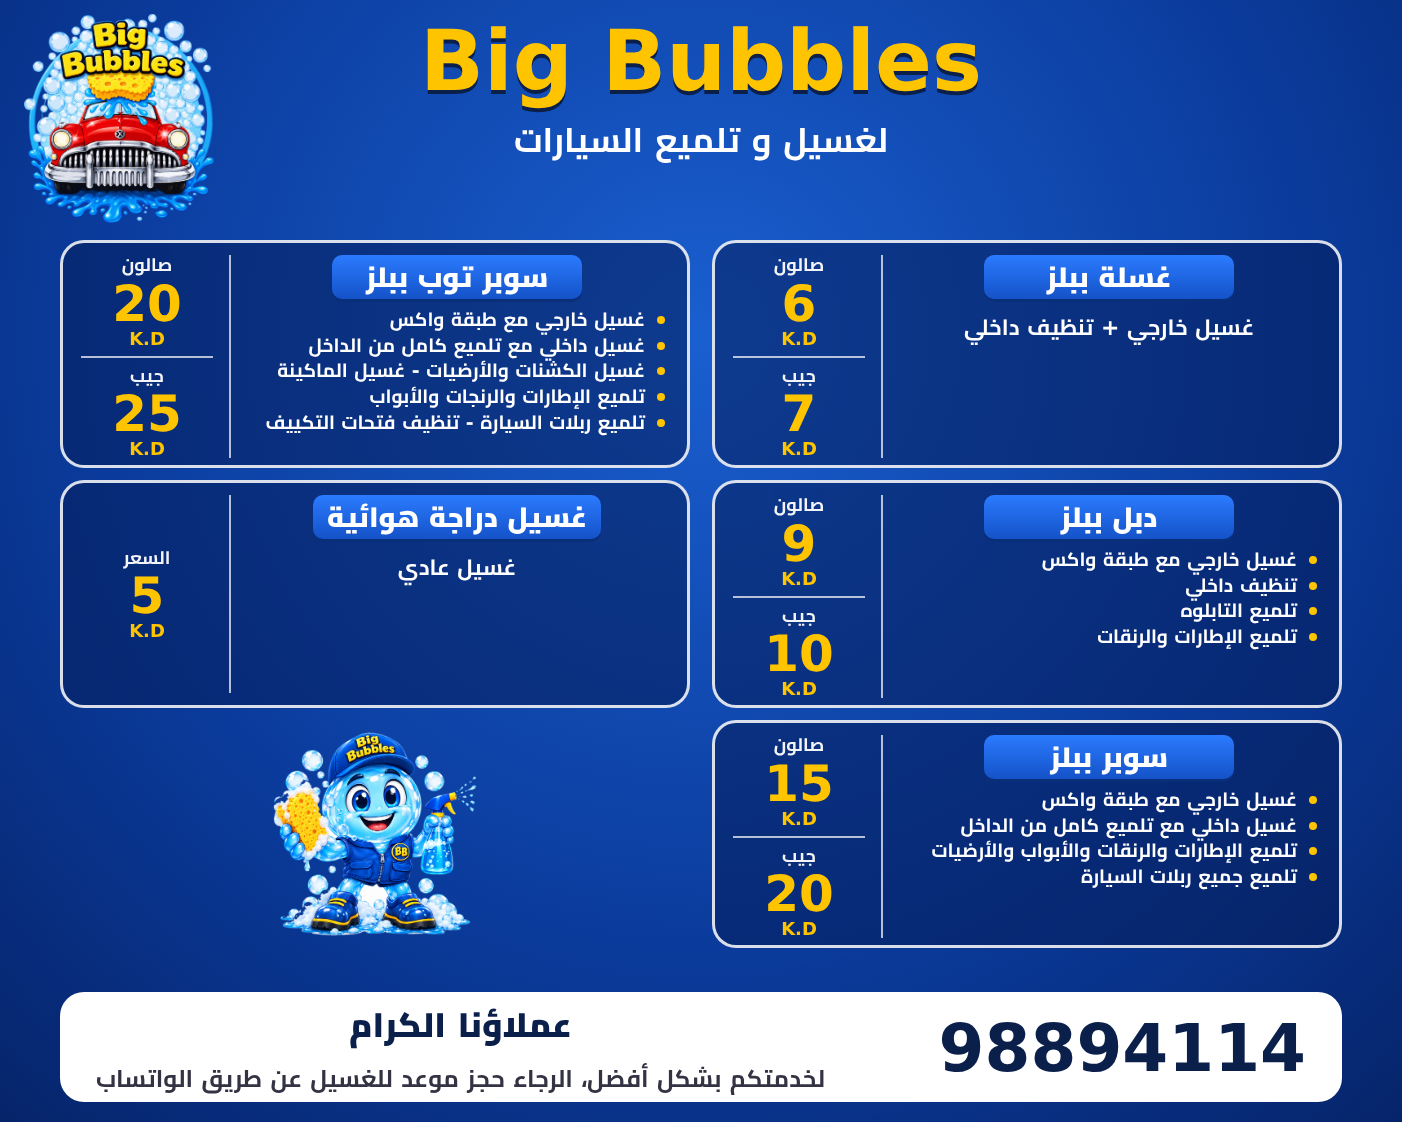
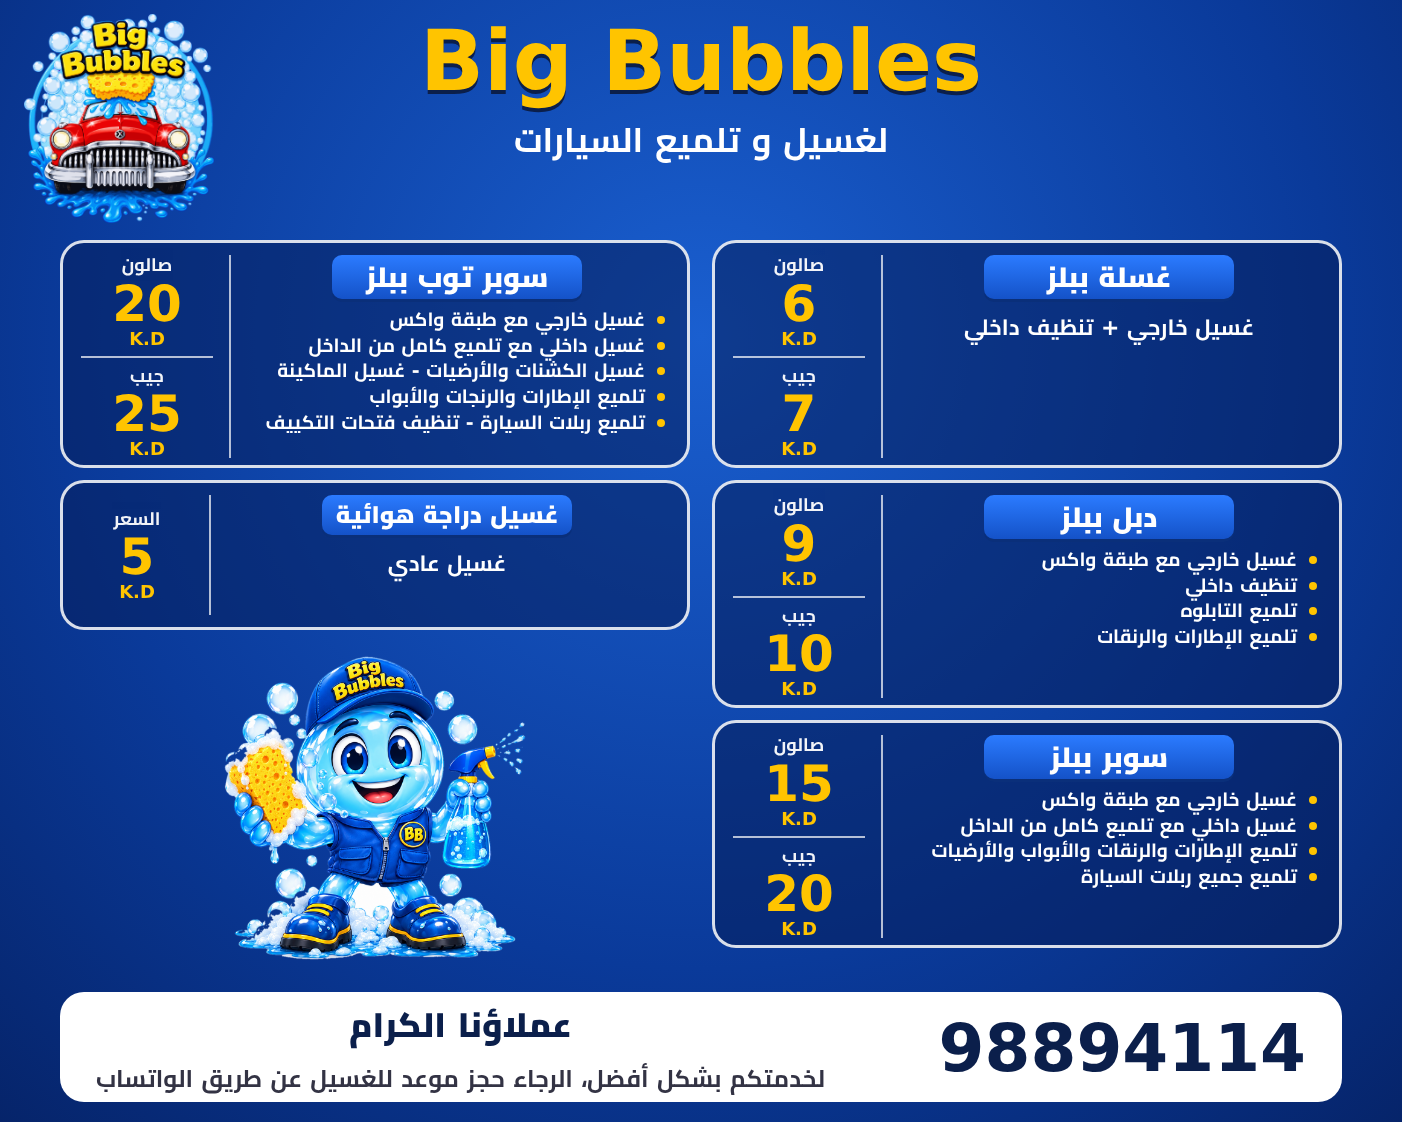
Smaller cycle card and bigger mascot in price table

Changed region(s): [[0.0307, 0.4367, 0.4907, 0.8734], [0.2147, 0.4367, 0.4294, 0.5303]]

diff --git a/car-wash/designs/table/index.html b/car-wash/designs/table/index.html
@@ -28,8 +28,10 @@ body{font-family:Cairo,'DejaVu Sans',sans-serif;direction:rtl;color:#fff;positio
 .prices strong{font-size:50px;font-weight:900;color:#FFC400;line-height:1}
 .prices span{line-height:1;font-size:18px;font-weight:900;color:#FFC400}
 .prices hr{border:0;border-top:2px solid rgba(255,255,255,.7);margin:6px 0}
-.mascot{background:transparent;border:0;display:flex;align-items:center;justify-content:center}
-.mascot img{width:100%;height:100%;object-fit:contain}
+.cycle{height:150px;align-self:start;grid-template-columns:1fr 130px}
+.cycle .tag{font-size:24px;min-width:230px;height:40px;line-height:40px}
+.mascot{background:transparent;border:0;display:flex;align-items:center;justify-content:center;height:300px;margin-top:-62px;overflow:visible}
+.mascot img{width:110%;height:110%;max-width:none;object-fit:contain}
 .foot{position:absolute;left:60px;right:60px;bottom:20px;height:110px;border-radius:24px;background:#fff;color:#0B1F4B;display:flex;align-items:center;justify-content:space-between;padding:0 36px}
 .foot .ph{font-size:66px;font-weight:900;color:#0B1F4B;direction:ltr}
 .foot .msg{text-align:center}
@@ -82,7 +84,7 @@ body{font-family:Cairo,'DejaVu Sans',sans-serif;direction:rtl;color:#fff;positio
     <div class="prices"><small>صالون</small><strong>9</strong><span>K.D</span><hr><small>جيب</small><strong>10</strong><span>K.D</span></div>
   </div>
   <!-- يسار -->
-  <div class="card">
+  <div class="card cycle">
     <div class="info">
       <div class="tag">غسيل دراجة هوائية</div>
       <div class="txt">غسيل عادي</div>
